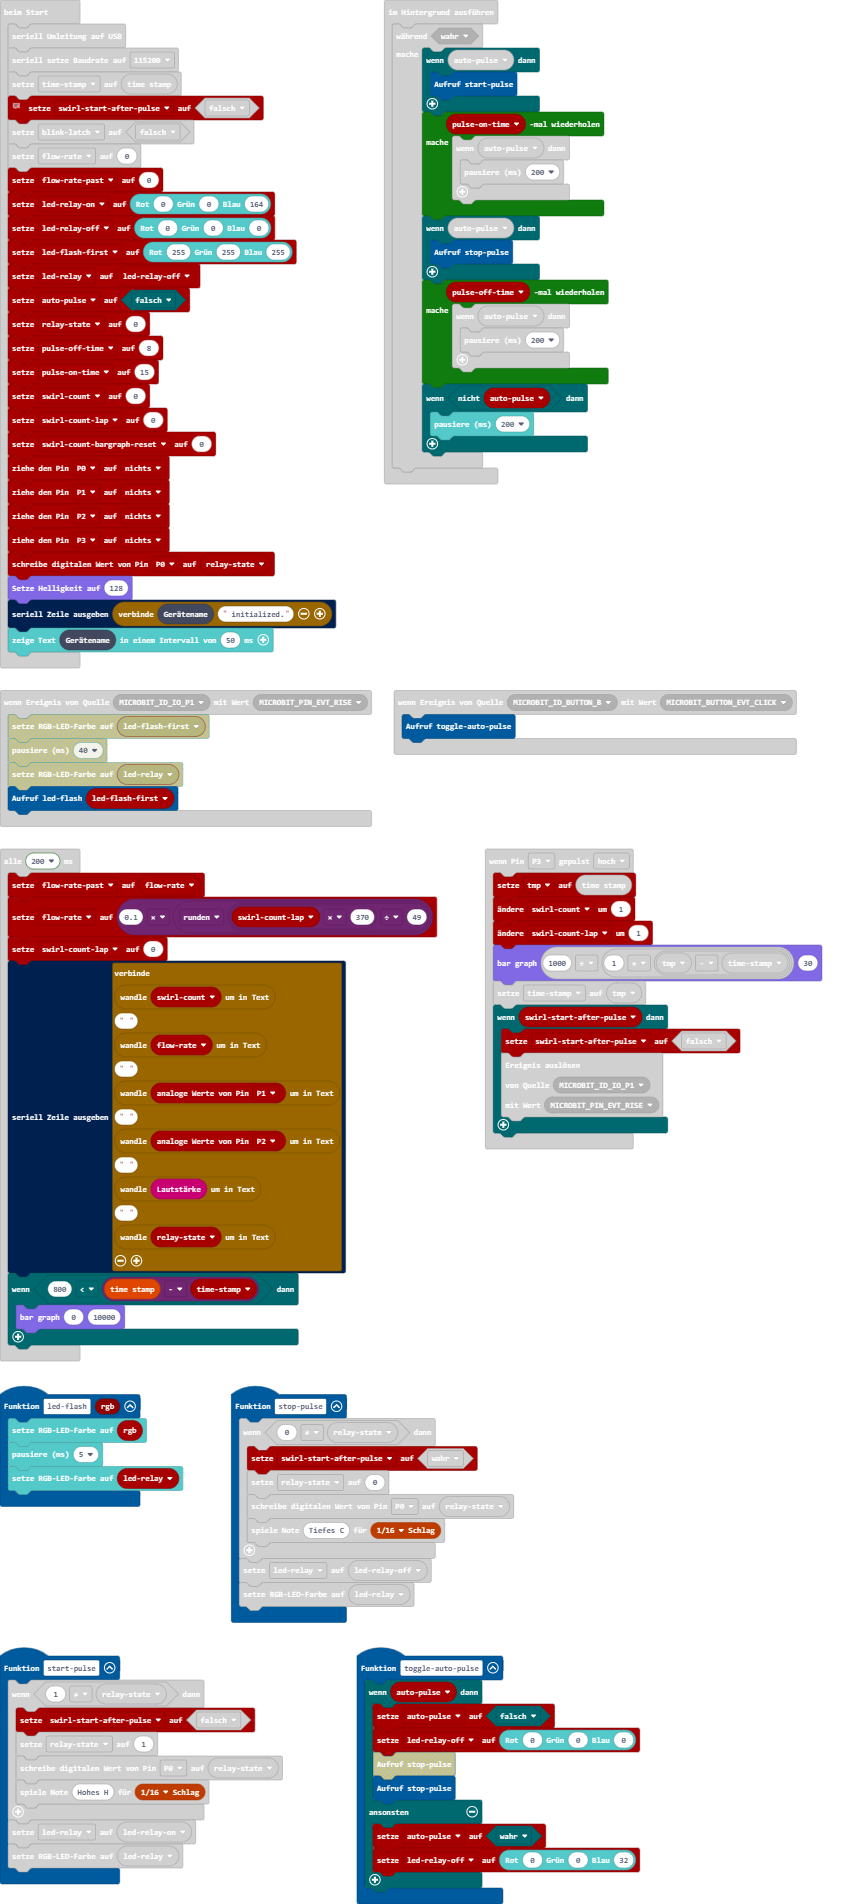
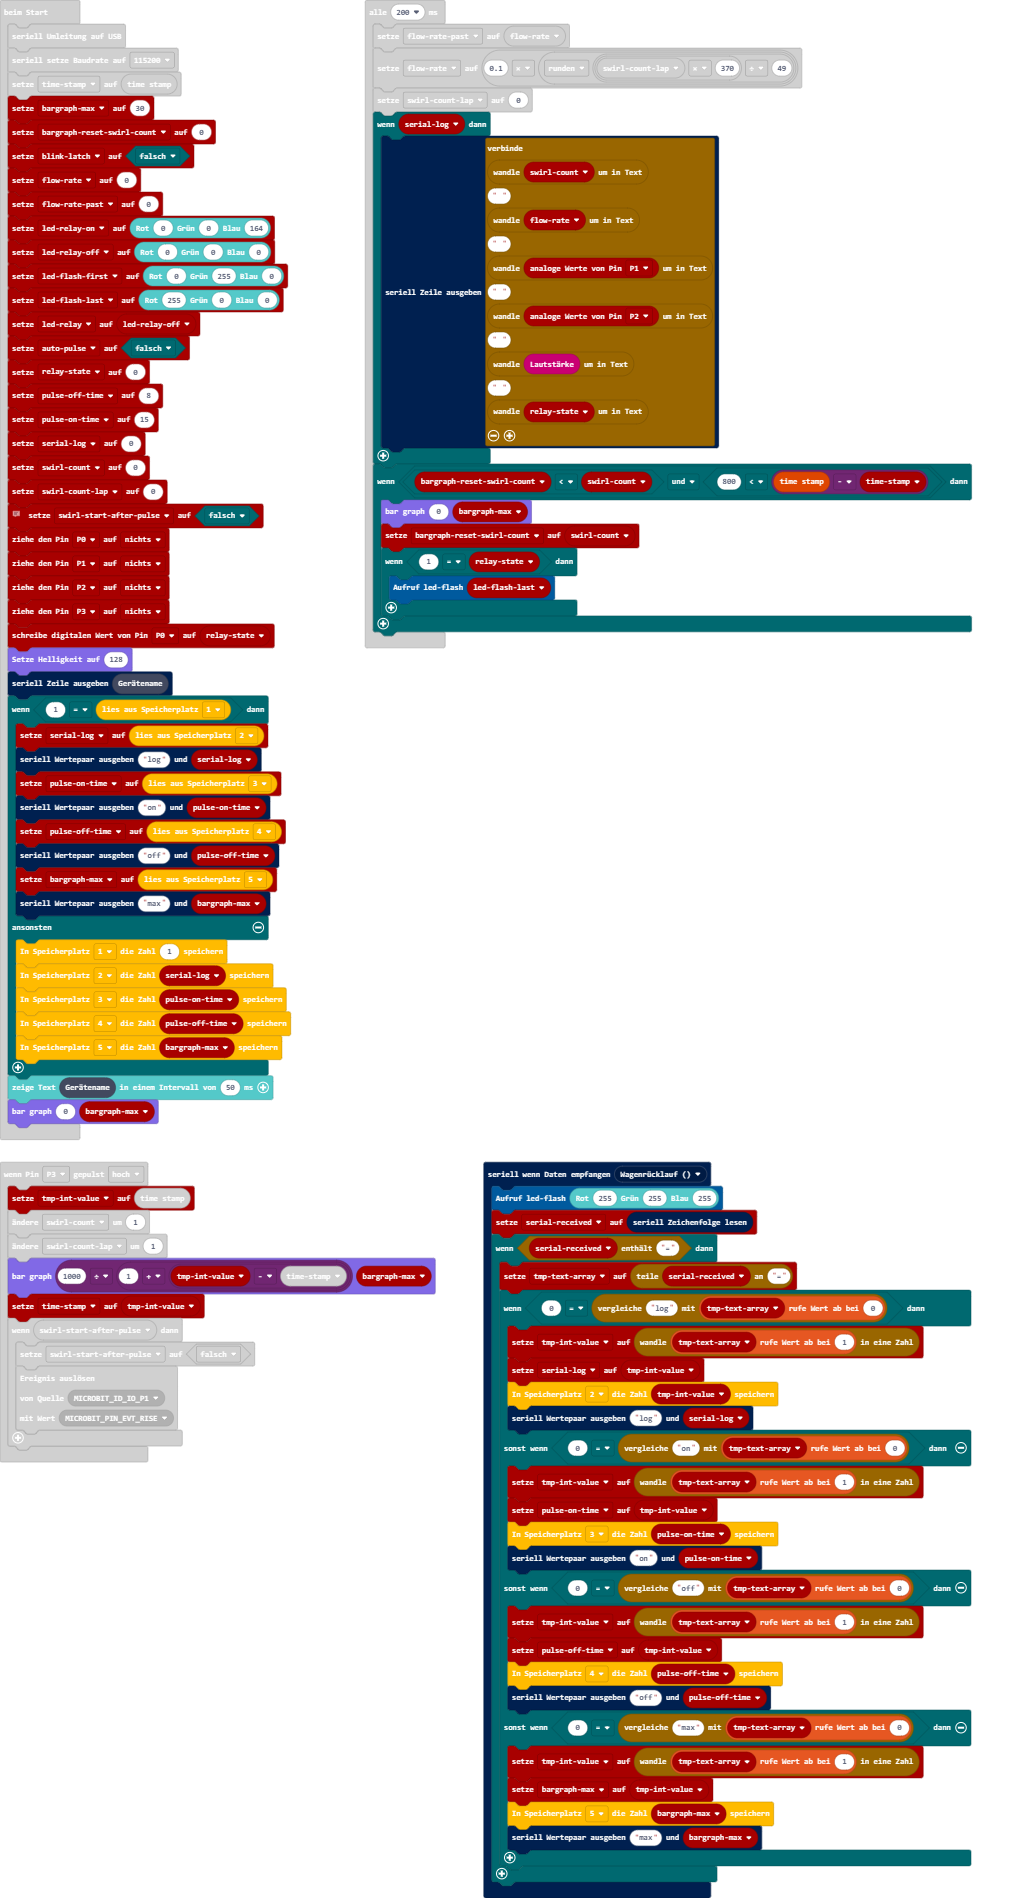
First release for calliope 2.0 (zotag)

diff --git a/main.ts b/main.ts
@@ -37,11 +37,11 @@ control.onEvent(EventBusSource.MICROBIT_ID_BUTTON_A, EventBusValue.MICROBIT_BUTT
     }
 })
 pins.onPulsed(DigitalPin.P3, PulseValue.High, function () {
-    tmp = diverseTools.timeStamp()
+    tmpintvalue = diverseTools.timeStamp()
     swirlcount += 1
     swirlcountlap += 1
-    squareDisplay.barGraph(1000 / (1 + (tmp - timestamp)), 30)
-    timestamp = tmp
+    squareDisplay.barGraph(1000 / (1 + (tmpintvalue - timestamp)), bargraphmax)
+    timestamp = tmpintvalue
     if (swirlstartafterpulse) {
         swirlstartafterpulse = false
         control.raiseEvent(
@@ -53,6 +53,34 @@ pins.onPulsed(DigitalPin.P3, PulseValue.High, function () {
 control.onEvent(EventBusSource.MICROBIT_ID_IO_P1, EventBusValue.MICROBIT_PIN_EVT_RISE, function () {
     ledflash(ledflashfirst)
 })
+serial.onDataReceived(serial.delimiters(Delimiters.CarriageReturn), function () {
+    ledflash(basic.rgb(255, 255, 255))
+    serialreceived = serial.readString()
+    if (serialreceived.includes("=")) {
+        tmptextarray = serialreceived.split("=")
+        if (0 == "log".compare(tmptextarray[0])) {
+            tmpintvalue = parseFloat(tmptextarray[1])
+            seriallog = tmpintvalue
+            storage.putNumber(StorageSlots.s2, tmpintvalue)
+            serial.writeValue("log", seriallog)
+        } else if (0 == "on".compare(tmptextarray[0])) {
+            tmpintvalue = parseFloat(tmptextarray[1])
+            pulseontime = tmpintvalue
+            storage.putNumber(StorageSlots.s3, pulseontime)
+            serial.writeValue("on", pulseontime)
+        } else if (0 == "off".compare(tmptextarray[0])) {
+            tmpintvalue = parseFloat(tmptextarray[1])
+            pulseofftime = tmpintvalue
+            storage.putNumber(StorageSlots.s4, pulseofftime)
+            serial.writeValue("off", pulseofftime)
+        } else if (0 == "max".compare(tmptextarray[0])) {
+            tmpintvalue = parseFloat(tmptextarray[1])
+            bargraphmax = tmpintvalue
+            storage.putNumber(StorageSlots.s5, bargraphmax)
+            serial.writeValue("max", bargraphmax)
+        }
+    }
+})
 function toggleautopulse () {
     if (autopulse) {
         autopulse = false
@@ -63,42 +91,68 @@ function toggleautopulse () {
         ledrelayoff = basic.rgb(0, 0, 32)
     }
 }
-let tmp = 0
+let tmptextarray: string[] = []
+let serialreceived = ""
+let tmpintvalue = 0
+let swirlstartafterpulse = false
+let seriallog = 0
+let pulseontime = 0
+let pulseofftime = 0
 let relaystate = 0
 let autopulse = false
 let ledrelay = 0
 let ledflashfirst = 0
 let ledrelayoff = 0
 let ledrelayon = 0
-let swirlstartafterpulse = false
+let bargraphmax = 0
 let timestamp = 0
 serial.redirectToUSB()
 serial.setBaudRate(BaudRate.BaudRate115200)
 timestamp = diverseTools.timeStamp()
-// Variable is 'true' after relay has been switched to 'off' until next flow meter pulse is received.
-swirlstartafterpulse = false
+bargraphmax = 30
+let bargraphresetswirlcount = 0
 let blinklatch = false
 let flowrate = 0
 let flowratepast = 0
 ledrelayon = basic.rgb(0, 0, 164)
 ledrelayoff = basic.rgb(0, 0, 0)
-ledflashfirst = basic.rgb(255, 255, 255)
+ledflashfirst = basic.rgb(0, 255, 0)
+let ledflashlast = basic.rgb(255, 0, 0)
 ledrelay = ledrelayoff
 autopulse = false
 relaystate = 0
-let pulseofftime = 8
-let pulseontime = 15
+pulseofftime = 8
+pulseontime = 15
+seriallog = 0
 let swirlcount = 0
 let swirlcountlap = 0
-let swirlcountbargraphreset = 0
+// Variable is 'true' after relay has been switched to 'off' until next flow meter pulse is received.
+swirlstartafterpulse = false
 pins.setPull(DigitalPin.P0, PinPullMode.PullNone)
 pins.setPull(DigitalPin.P1, PinPullMode.PullNone)
 pins.setPull(DigitalPin.P2, PinPullMode.PullNone)
 pins.setPull(DigitalPin.P3, PinPullMode.PullNone)
 pins.digitalWritePin(DigitalPin.P0, relaystate)
 led.setBrightness(128)
-serial.writeLine("" + control.deviceName() + " initialized.")
+serial.writeLine(control.deviceName())
+if (1 == storage.getNumber(StorageSlots.s1)) {
+    seriallog = storage.getNumber(StorageSlots.s2)
+    serial.writeValue("log", seriallog)
+    pulseontime = storage.getNumber(StorageSlots.s3)
+    serial.writeValue("on", pulseontime)
+    pulseofftime = storage.getNumber(StorageSlots.s4)
+    serial.writeValue("off", pulseofftime)
+    bargraphmax = storage.getNumber(StorageSlots.s5)
+    serial.writeValue("max", bargraphmax)
+} else {
+    storage.putNumber(StorageSlots.s1, 1)
+    storage.putNumber(StorageSlots.s2, seriallog)
+    storage.putNumber(StorageSlots.s3, pulseontime)
+    storage.putNumber(StorageSlots.s4, pulseofftime)
+    storage.putNumber(StorageSlots.s5, bargraphmax)
+}
 basic.showString(control.deviceName(), 50)
+squareDisplay.barGraph(0, bargraphmax)
 control.inBackground(function () {
     while (true) {
         if (autopulse) {
@@ -126,8 +180,14 @@ loops.everyInterval(200, function () {
     flowratepast = flowrate
     flowrate = 0.1 * Math.round(swirlcountlap * 370 / 49)
     swirlcountlap = 0
-    serial.writeLine("" + convertToText(swirlcount) + " " + convertToText(flowrate) + " " + convertToText(pins.analogReadPin(AnalogPin.P1)) + " " + convertToText(pins.analogReadPin(AnalogPin.P2)) + " " + convertToText(input.soundLevel()) + " " + convertToText(relaystate))
-    if (800 < diverseTools.timeStamp() - timestamp) {
-        squareDisplay.barGraph(0, 10000)
+    if (seriallog) {
+        serial.writeLine("" + convertToText(swirlcount) + " " + convertToText(flowrate) + " " + convertToText(pins.analogReadPin(AnalogPin.P1)) + " " + convertToText(pins.analogReadPin(AnalogPin.P2)) + " " + convertToText(input.soundLevel()) + " " + convertToText(relaystate))
+    }
+    if (bargraphresetswirlcount < swirlcount && 800 < diverseTools.timeStamp() - timestamp) {
+        squareDisplay.barGraph(0, bargraphmax)
+        bargraphresetswirlcount = swirlcount
+        if (1 == relaystate) {
+            ledflash(ledflashlast)
+        }
     }
 })
